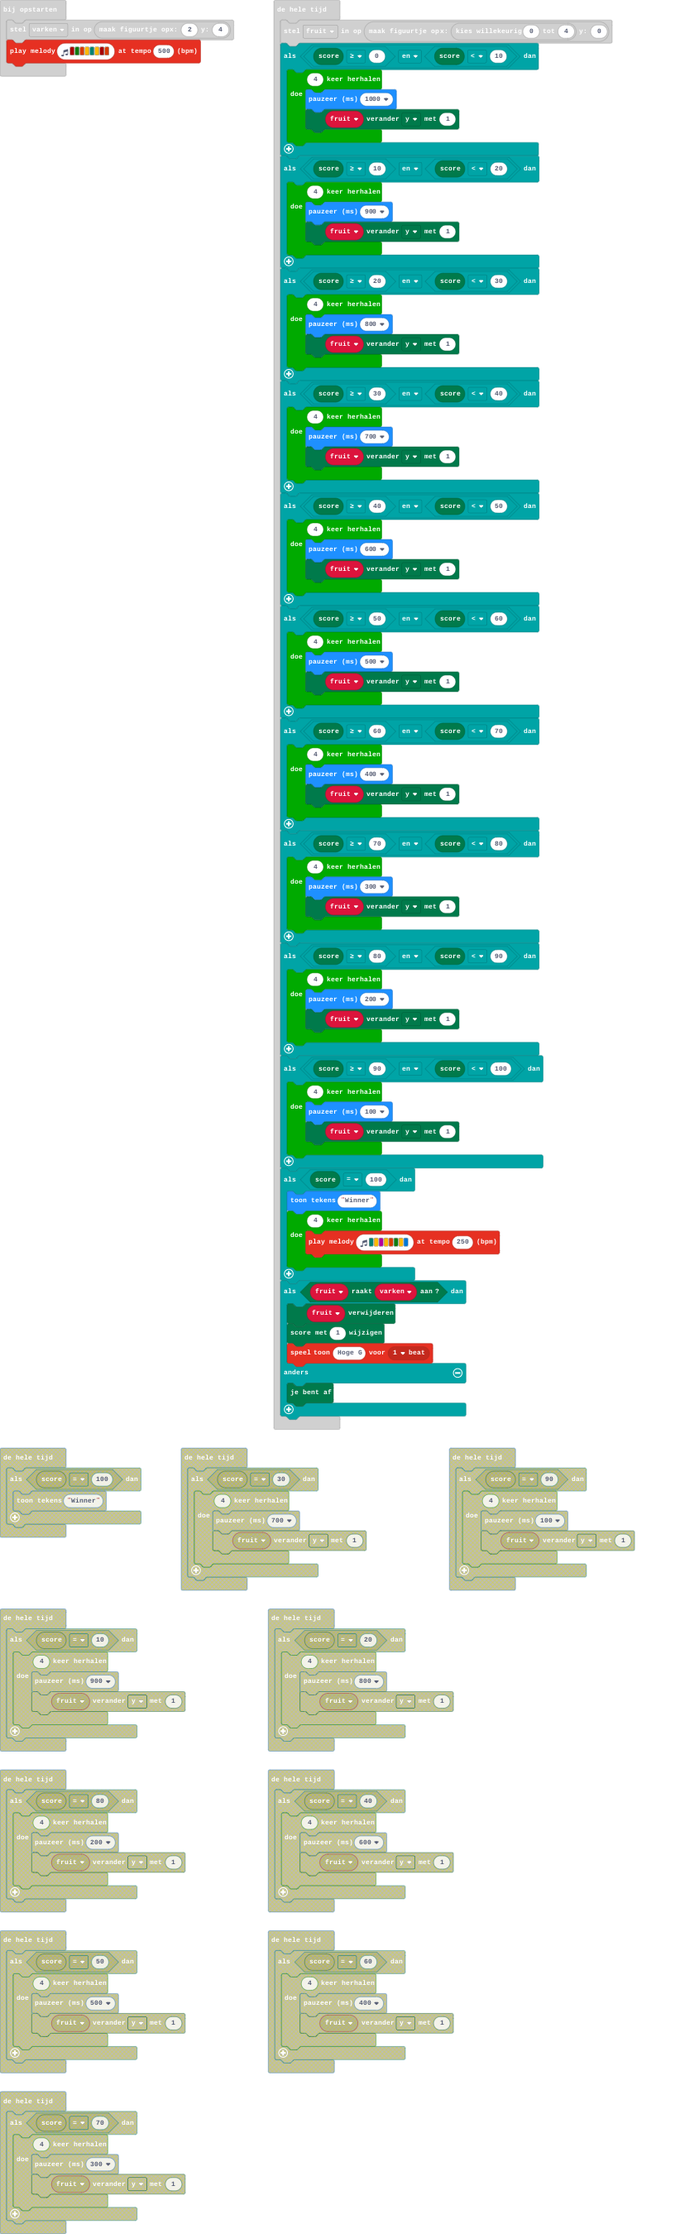
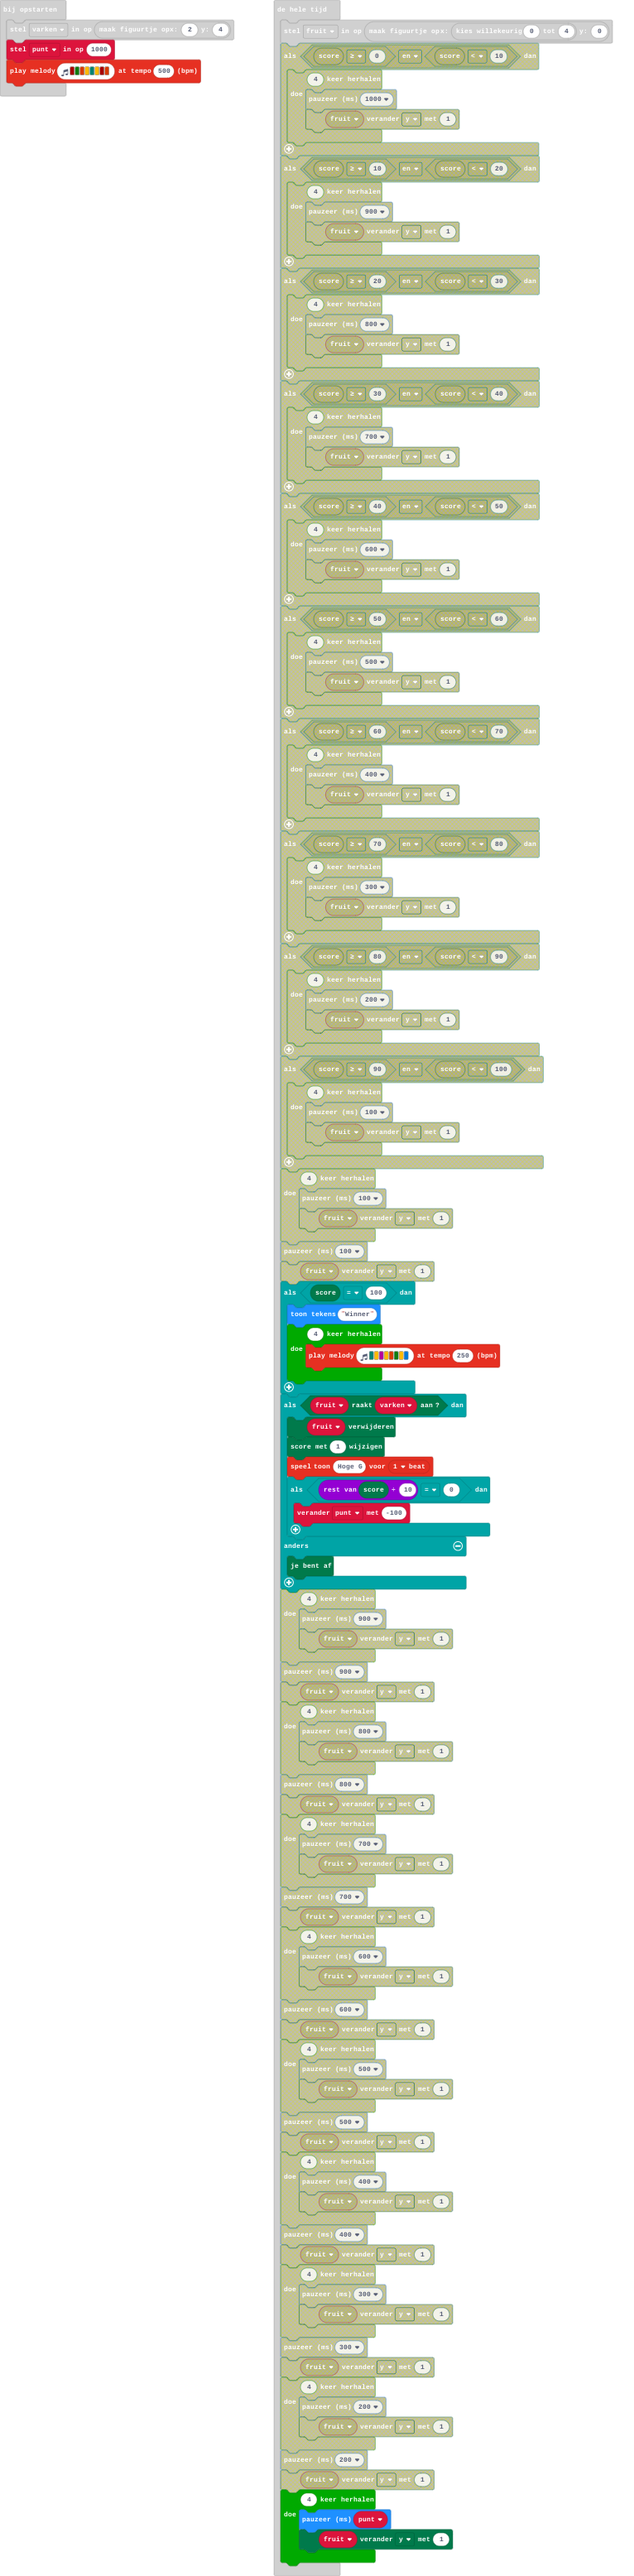
Minder codes

diff --git a/main.ts b/main.ts
@@ -7,68 +7,13 @@ input.onButtonPressed(Button.B, function () {
 let fruit: game.LedSprite = null
 let varken: game.LedSprite = null
 varken = game.createSprite(2, 4)
+let punt = 1000
 music.playMelody("C5 G B A F A C5 B ", 500)
 basic.forever(function () {
     fruit = game.createSprite(randint(0, 4), 0)
-    if (game.score() >= 0 && game.score() < 10) {
-        for (let index = 0; index < 4; index++) {
-            basic.pause(1000)
-            fruit.change(LedSpriteProperty.Y, 1)
-        }
-    }
-    if (game.score() >= 10 && game.score() < 20) {
-        for (let index = 0; index < 4; index++) {
-            basic.pause(900)
-            fruit.change(LedSpriteProperty.Y, 1)
-        }
-    }
-    if (game.score() >= 20 && game.score() < 30) {
-        for (let index = 0; index < 4; index++) {
-            basic.pause(800)
-            fruit.change(LedSpriteProperty.Y, 1)
-        }
-    }
-    if (game.score() >= 30 && game.score() < 40) {
-        for (let index = 0; index < 4; index++) {
-            basic.pause(700)
-            fruit.change(LedSpriteProperty.Y, 1)
-        }
-    }
-    if (game.score() >= 40 && game.score() < 50) {
-        for (let index = 0; index < 4; index++) {
-            basic.pause(600)
-            fruit.change(LedSpriteProperty.Y, 1)
-        }
-    }
-    if (game.score() >= 50 && game.score() < 60) {
-        for (let index = 0; index < 4; index++) {
-            basic.pause(500)
-            fruit.change(LedSpriteProperty.Y, 1)
-        }
-    }
-    if (game.score() >= 60 && game.score() < 70) {
-        for (let index = 0; index < 4; index++) {
-            basic.pause(400)
-            fruit.change(LedSpriteProperty.Y, 1)
-        }
-    }
-    if (game.score() >= 70 && game.score() < 80) {
-        for (let index = 0; index < 4; index++) {
-            basic.pause(300)
-            fruit.change(LedSpriteProperty.Y, 1)
-        }
-    }
-    if (game.score() >= 80 && game.score() < 90) {
-        for (let index = 0; index < 4; index++) {
-            basic.pause(200)
-            fruit.change(LedSpriteProperty.Y, 1)
-        }
-    }
-    if (game.score() >= 90 && game.score() < 100) {
-        for (let index = 0; index < 4; index++) {
-            basic.pause(100)
-            fruit.change(LedSpriteProperty.Y, 1)
-        }
+    for (let index = 0; index < 4; index++) {
+        basic.pause(punt)
+        fruit.change(LedSpriteProperty.Y, 1)
     }
     if (game.score() == 100) {
         basic.showString("Winner")
@@ -80,6 +25,9 @@ basic.forever(function () {
         fruit.delete()
         game.addScore(1)
         music.playTone(784, music.beat(BeatFraction.Whole))
+        if (game.score() % 10 == 0) {
+            punt += -100
+        }
     } else {
         game.gameOver()
     }
